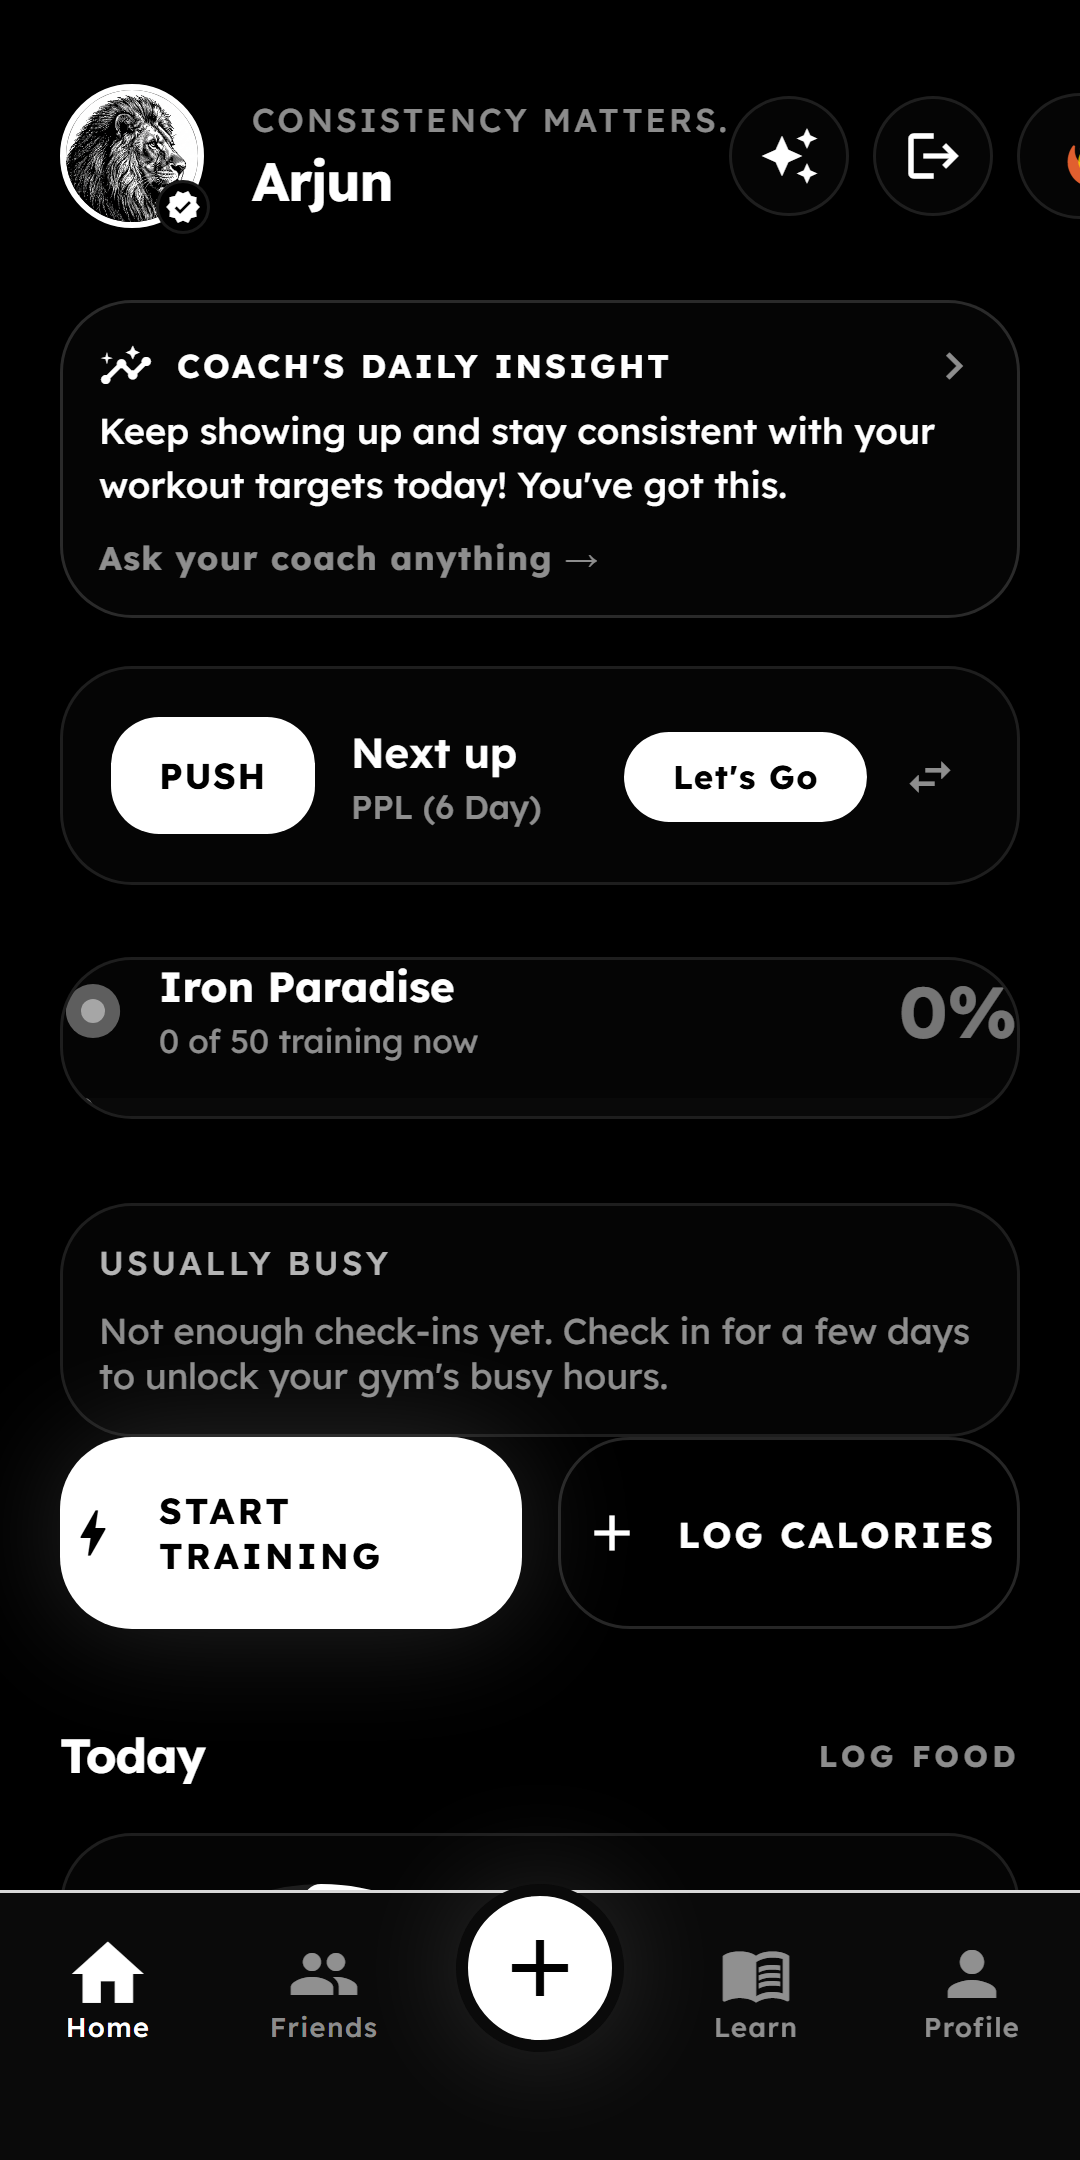
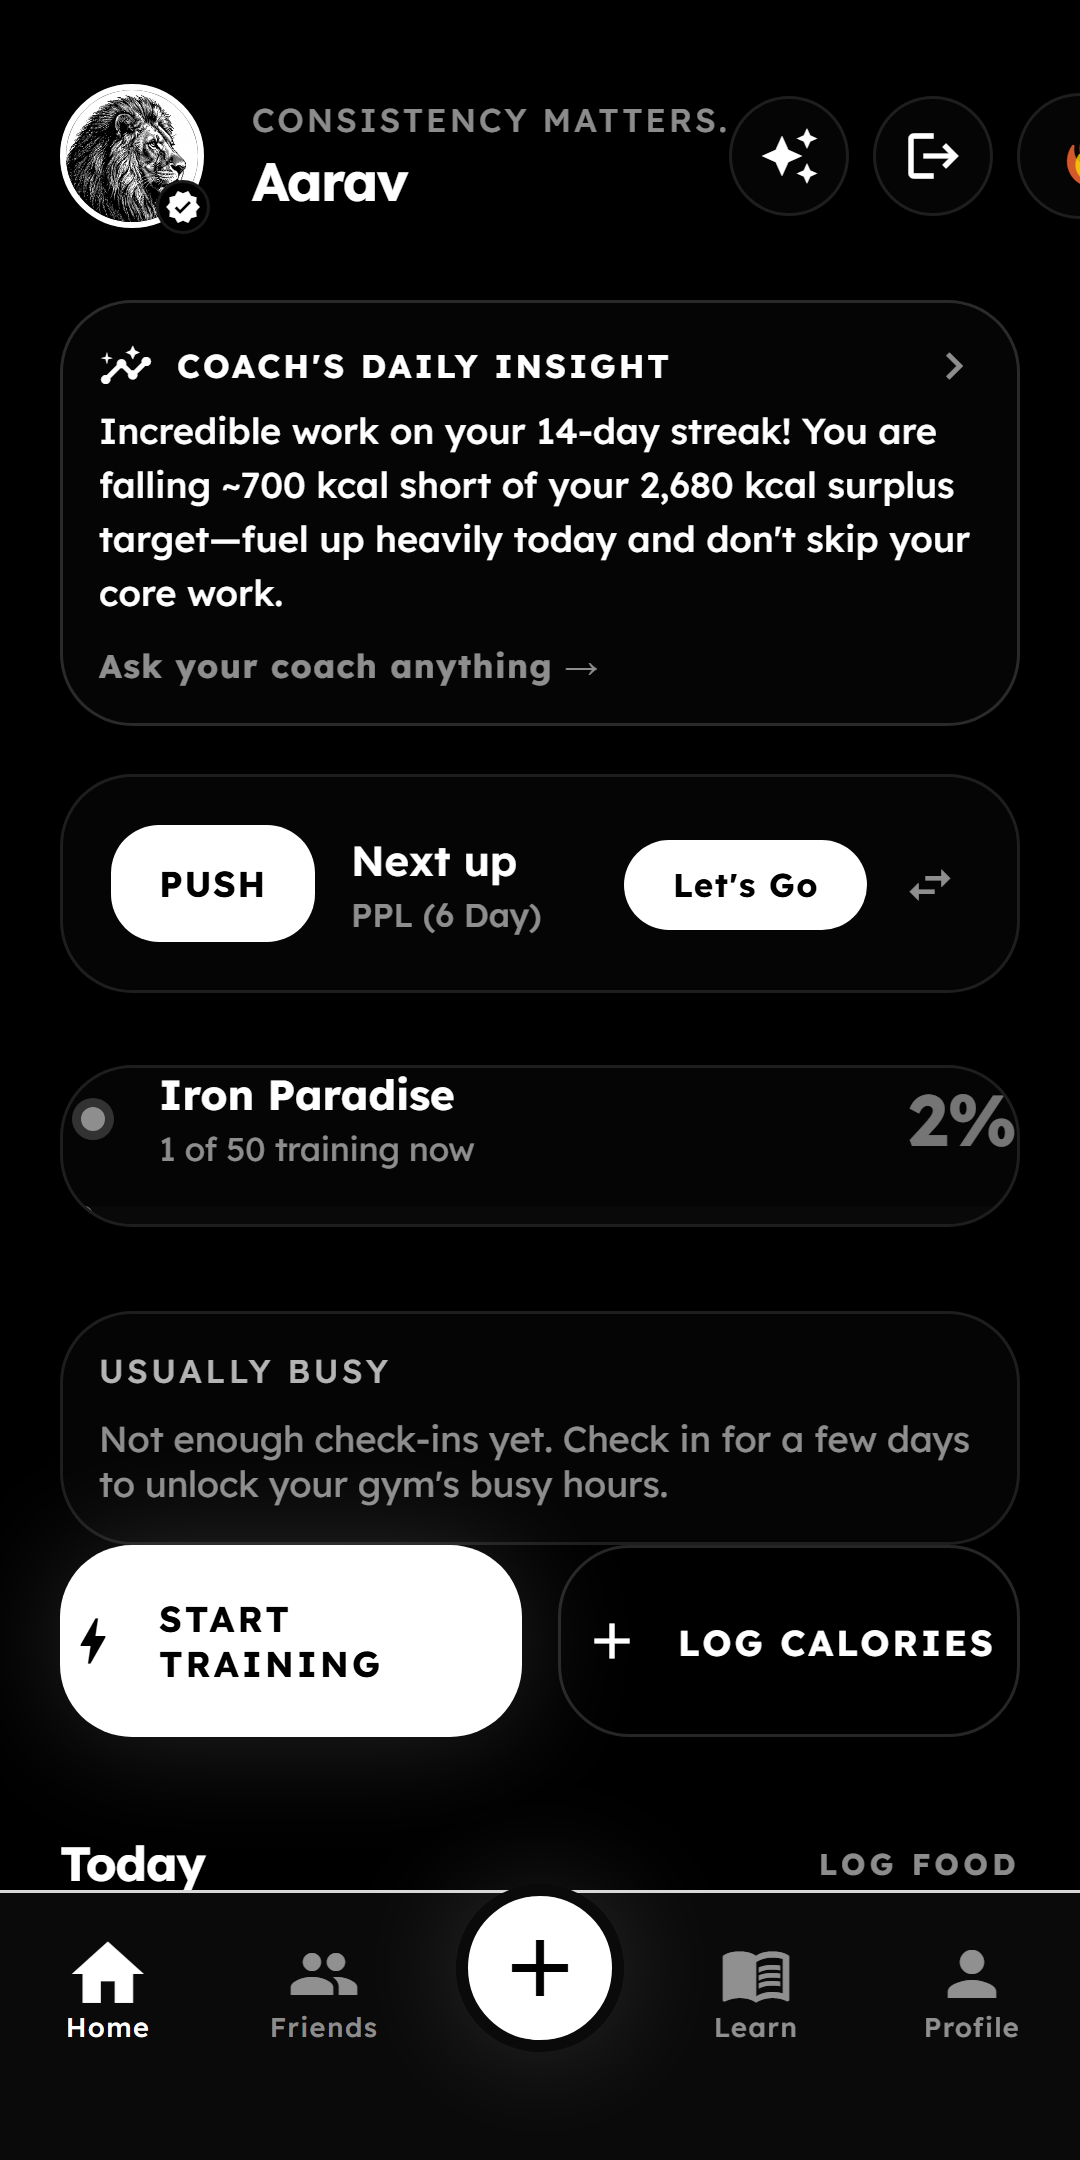
fix(seed): seed sessions in the past, and generate the weekly recap
Two reasons a freshly seeded reviewer account rendered as an empty app.

Sessions were stamped at 18:30 local, which is in the FUTURE on any run before
the evening, so queries filtering completed_at <= NOW() dropped the most
recent one. They are now anchored to a fixed offset before now.

The Stats screen's whole Training headline reads
weeklyRecap?.recap_data?.workouts_count || 0, and that recap row is only ever
written by the Monday cron. A new account therefore reported '0 sessions' and
an untrained muscle map no matter how much history it had — the data was all
present, nothing had summarised it. The seeder now generates the recap, for
LAST week's Monday, since getLatestWeeklyRecap looks for the most recent
completed Mon-Sun window and a current-week recap would be written and never
found.

Worth noting as a product issue beyond the seed: a real user who trains all
week still sees '0 sessions' on Stats until the cron runs.

Screenshots regenerated — both sets now show 6 sessions, the weekly report,
and a populated heatmap.

diff --git a/backend/scripts/seed_review_account.js b/backend/scripts/seed_review_account.js
@@ -154,9 +154,14 @@ async function seed() {
         const weekIndex = Math.floor((20 - day) / 7);
         const progression = 1 + weekIndex * 0.015;
 
-        const started = new Date(date); started.setHours(18, 30, 0, 0);
+        // Anchor every session to a fixed offset BEFORE now, rather than to a
+        // wall-clock hour. setHours(18, 30) put today's session at 18:30 local,
+        // which is in the future on any run before the evening — and queries
+        // that filter completed_at <= NOW() then drop it, so a freshly seeded
+        // account reported "0 sessions" for the current week.
         const duration = 58 + (sessions % 5) * 3;
-        const completed = new Date(started.getTime() + duration * 60000);
+        const completed = new Date(Date.now() - day * 86400000 - 3 * 3600000);
+        const started = new Date(completed.getTime() - duration * 60000);
 
         const s = await query(
             `INSERT INTO workout_sessions
@@ -290,6 +295,29 @@ async function seed() {
             streak++;
         }
         console.log(`Seeded ${streak}-day check-in streak`);
+    }
+
+    // ── Weekly recap ────────────────────────────────────────────────────────
+    // The Stats screen's entire Training headline reads
+    // `weeklyRecap?.recap_data?.workouts_count || 0`, and the recap row is
+    // only ever written by the Monday cron. A freshly seeded account therefore
+    // reports "0 sessions" and an empty muscle heatmap no matter how much
+    // training history it has — the data is all there, but nothing has
+    // summarised it yet. Generating it here makes the account coherent
+    // immediately instead of waiting for the next cron window.
+    try {
+        const weeklyRecap = require('../src/services/weeklyRecap');
+        // LAST week's Monday, not this week's. getLatestWeeklyRecap() — which
+        // is what the Stats screen reads — looks for the most recent COMPLETED
+        // Mon–Sun window, so a recap generated for the current week would be
+        // written and then never found.
+        const lastWeek = new Date(Date.now() - 7 * 86400000);
+        await weeklyRecap.generateWeeklyRecap(uid, weeklyRecap.getStartOfWeek(lastWeek));
+        console.log('Generated weekly recap');
+    } catch (e) {
+        // Needs a working GEMINI_API_KEY. Not fatal — the account is still
+        // fully usable, the Stats headline just reads 0 until the cron runs.
+        console.log(`Weekly recap skipped (${e.message})`);
     }
 
     console.log(`\n  Reviewer account ready\n    ${REVIEW_EMAIL}\n    ${REVIEW_PASSWORD}\n`);

diff --git a/docs/STORE_LAUNCH.md b/docs/STORE_LAUNCH.md
@@ -247,14 +247,24 @@ automatically.
 Regenerate:
 
 ```bash
-cd backend && node scripts/seed_review_account.js     # 1. seed the account
-cd ../mobile && npx expo start --web --port 8099      # 2. serve the app
-# 3. in the website project:
-node scripts/capture-store-screenshots.mjs
+# 1. seed the reviewer account
+cd backend && node scripts/seed_review_account.js
+
+# 2. serve the app POINTED AT PRODUCTION (see the trap below)
+cd ../mobile && EXPO_PUBLIC_API_URL=https://fitzo.onrender.com/api \
+  npx expo start --web --port 8100
+
+# 3. from the website project (Playwright lives in its node_modules)
+FITZO_WEB_URL=http://localhost:8100 node scripts/capture-store-screenshots.mjs
 ```
 
-Playwright lives in the website project's `node_modules`, which is why the
-capture script sits there rather than in `mobile/`.
+> **The trap.** `mobile/.env.local` points `EXPO_PUBLIC_API_URL` at
+> `http://localhost:3001/api` and **overrides** `mobile/.env`. With no local
+> backend running, every request fails with `ERR_CONNECTION_REFUSED`, the login
+> never completes, and the capture used to silently emit a full set of
+> logged-out screenshots — plausible-looking, showing "0 sessions" and an
+> untrained muscle map. The script now waits for a real post-login signal and
+> aborts loudly instead, but the env override is the actual fix.
 
 > **Caveat worth knowing:** these are captured from the Expo **web** build, so
 > they are the real UI with real data but rendered by the browser. Fonts and
